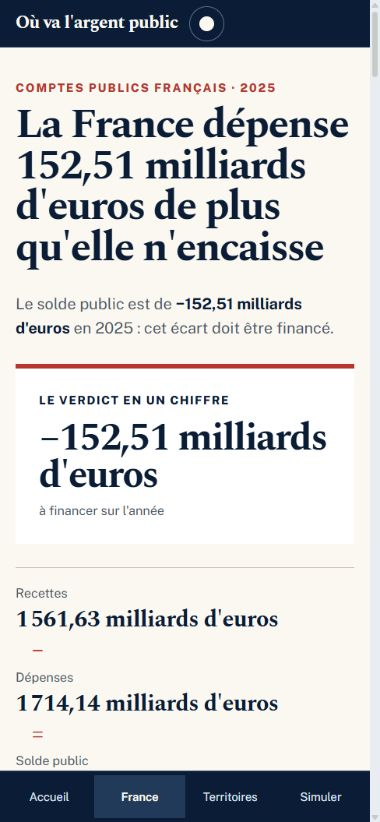
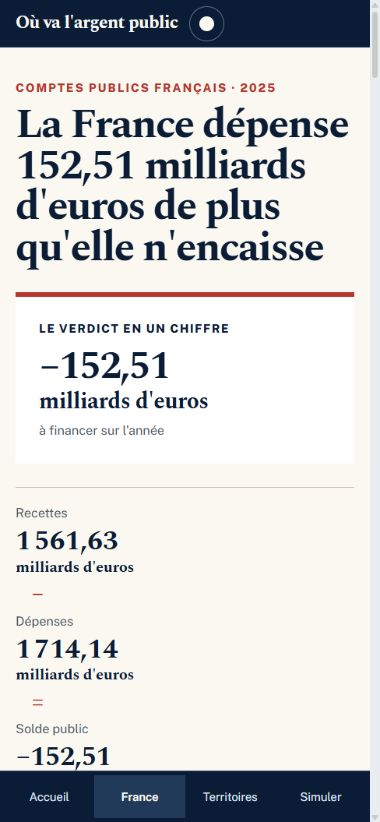
Actualise les preuves typographiques du bilan

Changed region(s): [[0.0289, 0.3345, 0.9263, 0.9428]]

diff --git a/docs/verification/2026-08-26-verdict-france/verification-report.md b/docs/verification/2026-08-26-verdict-france/verification-report.md
@@ -1,7 +1,7 @@
 # Vérification visuelle — Bilan France v2
 
 Date : 26 août 2026
-Révision contrôlée : `a2f1a58`
+Révision contrôlée : `fccd8d7`
 Contrat de référence : maquette **01 — « Le verdict d'abord »**, dans
 `.superpowers/brainstorm/1847-1787723803/content/10-directions-france.html`,
 et spécification v2
@@ -15,8 +15,8 @@ la comparaison du premier écran avec la maquette 01.
 
 | Vue | Capture | Dimensions du fichier |
 | --- | --- | --- |
-| Bilan, bureau, page entière | [bilan-desktop-1440x900.jpg](bilan-desktop-1440x900.jpg) | 1 429 × 7 793 px |
-| Bilan, mobile, page entière | [bilan-mobile-390x844.jpg](bilan-mobile-390x844.jpg) | 380 × 10 239 px |
+| Bilan, bureau, page entière | [bilan-desktop-1440x900.jpg](bilan-desktop-1440x900.jpg) | 1 429 × 7 680 px |
+| Bilan, mobile, page entière | [bilan-mobile-390x844.jpg](bilan-mobile-390x844.jpg) | 380 × 10 218 px |
 | Bilan, bureau, hero | [bilan-hero-desktop-1440x900.jpg](bilan-hero-desktop-1440x900.jpg) | 1 430 × 894 px |
 | Bilan, mobile, hero | [bilan-hero-mobile-390x844.jpg](bilan-hero-mobile-390x844.jpg) | 380 × 822 px |
 
@@ -36,6 +36,8 @@ même grammaire visuelle avec les chiffres et sources réels.
 | Conclusion éditoriale à gauche | Le verdict « La France dépense 152,51 milliards d'euros de plus qu'elle n'en encaisse » ouvre le hero dans sa colonne éditoriale. | Conforme |
 | Chiffre-totem à droite, carte blanche et accent rouge | Le totem « Le verdict en un chiffre », bordé de rouge, présente le solde et sa qualification « à financer sur l'année ». | Conforme |
 | Équation lisible sur une ligne | Bureau : Recettes − Dépenses = Solde public est une équation horizontale complète, avec les signes visibles et le solde rouge. | Conforme |
+| Montants sans césure arbitraire | Les quatre montants du hero séparent la valeur, insécable, de l'unité complète « milliards d'euros » ; aucun mot n'est coupé arbitrairement. | Conforme |
+| Aucun sous-titre redondant | La phrase qui répétait le solde sous le verdict a été retirée (`summary = 0`). | Conforme |
 | Trois portes d'analyse sous le calcul | Les libellés approuvés sont exactement « D'où vient l'argent ? », « Où part-il ? » et « Pourquoi la dette monte ? ». Europe est une preuve du troisième chapitre, jamais une porte. | Conforme |
 | Récit éditorial, pas tableau de bord | Les panneaux gris verticaux de chiffres et la navigation héritée à pilules ont disparu ; les filets, le papier et l'espace structurent la page. | Conforme |
 
@@ -43,10 +45,11 @@ même grammaire visuelle avec les chiffres et sources réels.
 
 | Vérification | Bureau 1 440 × 900 | Mobile 390 × 844 | Résultat |
 | --- | --- | --- | --- |
-| Largeur de page | `innerWidth = 1440`, `clientWidth = scrollWidth = 1430` | `innerWidth = 390`, `clientWidth = scrollWidth = 380` | Aucun débordement horizontal |
-| Hauteur document | 7 794 px | 10 239 px | Captures de page entière archivées |
+| Largeur de page | `innerWidth = clientWidth = scrollWidth = 1440` | `innerWidth = clientWidth = scrollWidth = 390` | Aucun débordement horizontal |
+| Hauteur document | 7 649 px | 10 015 px | Captures de page entière archivées |
 | Couverture / hero | Papier, hero en deux colonnes : éditorial à gauche et totem rouge à droite | Couverture dans la colonne utile, titre puis totem, sans chevauchement | Conforme |
 | Équation | Cinq éléments sur une rangée (trois termes et deux signes) | Étapes verticales avec signes conservés | Conforme |
+| Paragraphes d'analyse | Justification, césure française et interligne 1,45 sur les textes longs | Alignement à gauche rétabli pour préserver la lecture étroite | Conforme |
 | Portes et chapitres | 3 portes : « D'où vient l'argent ? », « Où part-il ? », « Pourquoi la dette monte ? » ; 3 chapitres | Les mêmes 3 portes sont empilées ; 3 chapitres | Conforme |
 | Europe | Preuve intégrée à la partie dette, sans libellé de porte Europe | Preuve intégrée au troisième chapitre, sans libellé de porte Europe | Conforme |
 | Ancienne navigation / ancienne section Europe | — | `legacyNav = 0`, `#france-europe = 0` | Absentes |
@@ -63,6 +66,8 @@ navigation autonome.
 La comparaison visuelle du premier écran, complétée par les captures intégrales
 et les mesures de DOM, confirme le contrat v2 de la maquette 01 sur `/bilan` :
 couverture éditoriale papier, header bleu nuit, conclusion et totem, équation,
-trois portes et flux de lecture à trois chapitres. Les vérifications de suite de
+trois portes et flux de lecture à trois chapitres. La passe typographique finale
+supprime la répétition du solde, empêche les montants de se casser et améliore
+la densité ainsi que la justification des analyses. Les vérifications de suite de
 tests, build et intégrité Git sont consignées dans le rapport d'exécution de la
 tâche.
